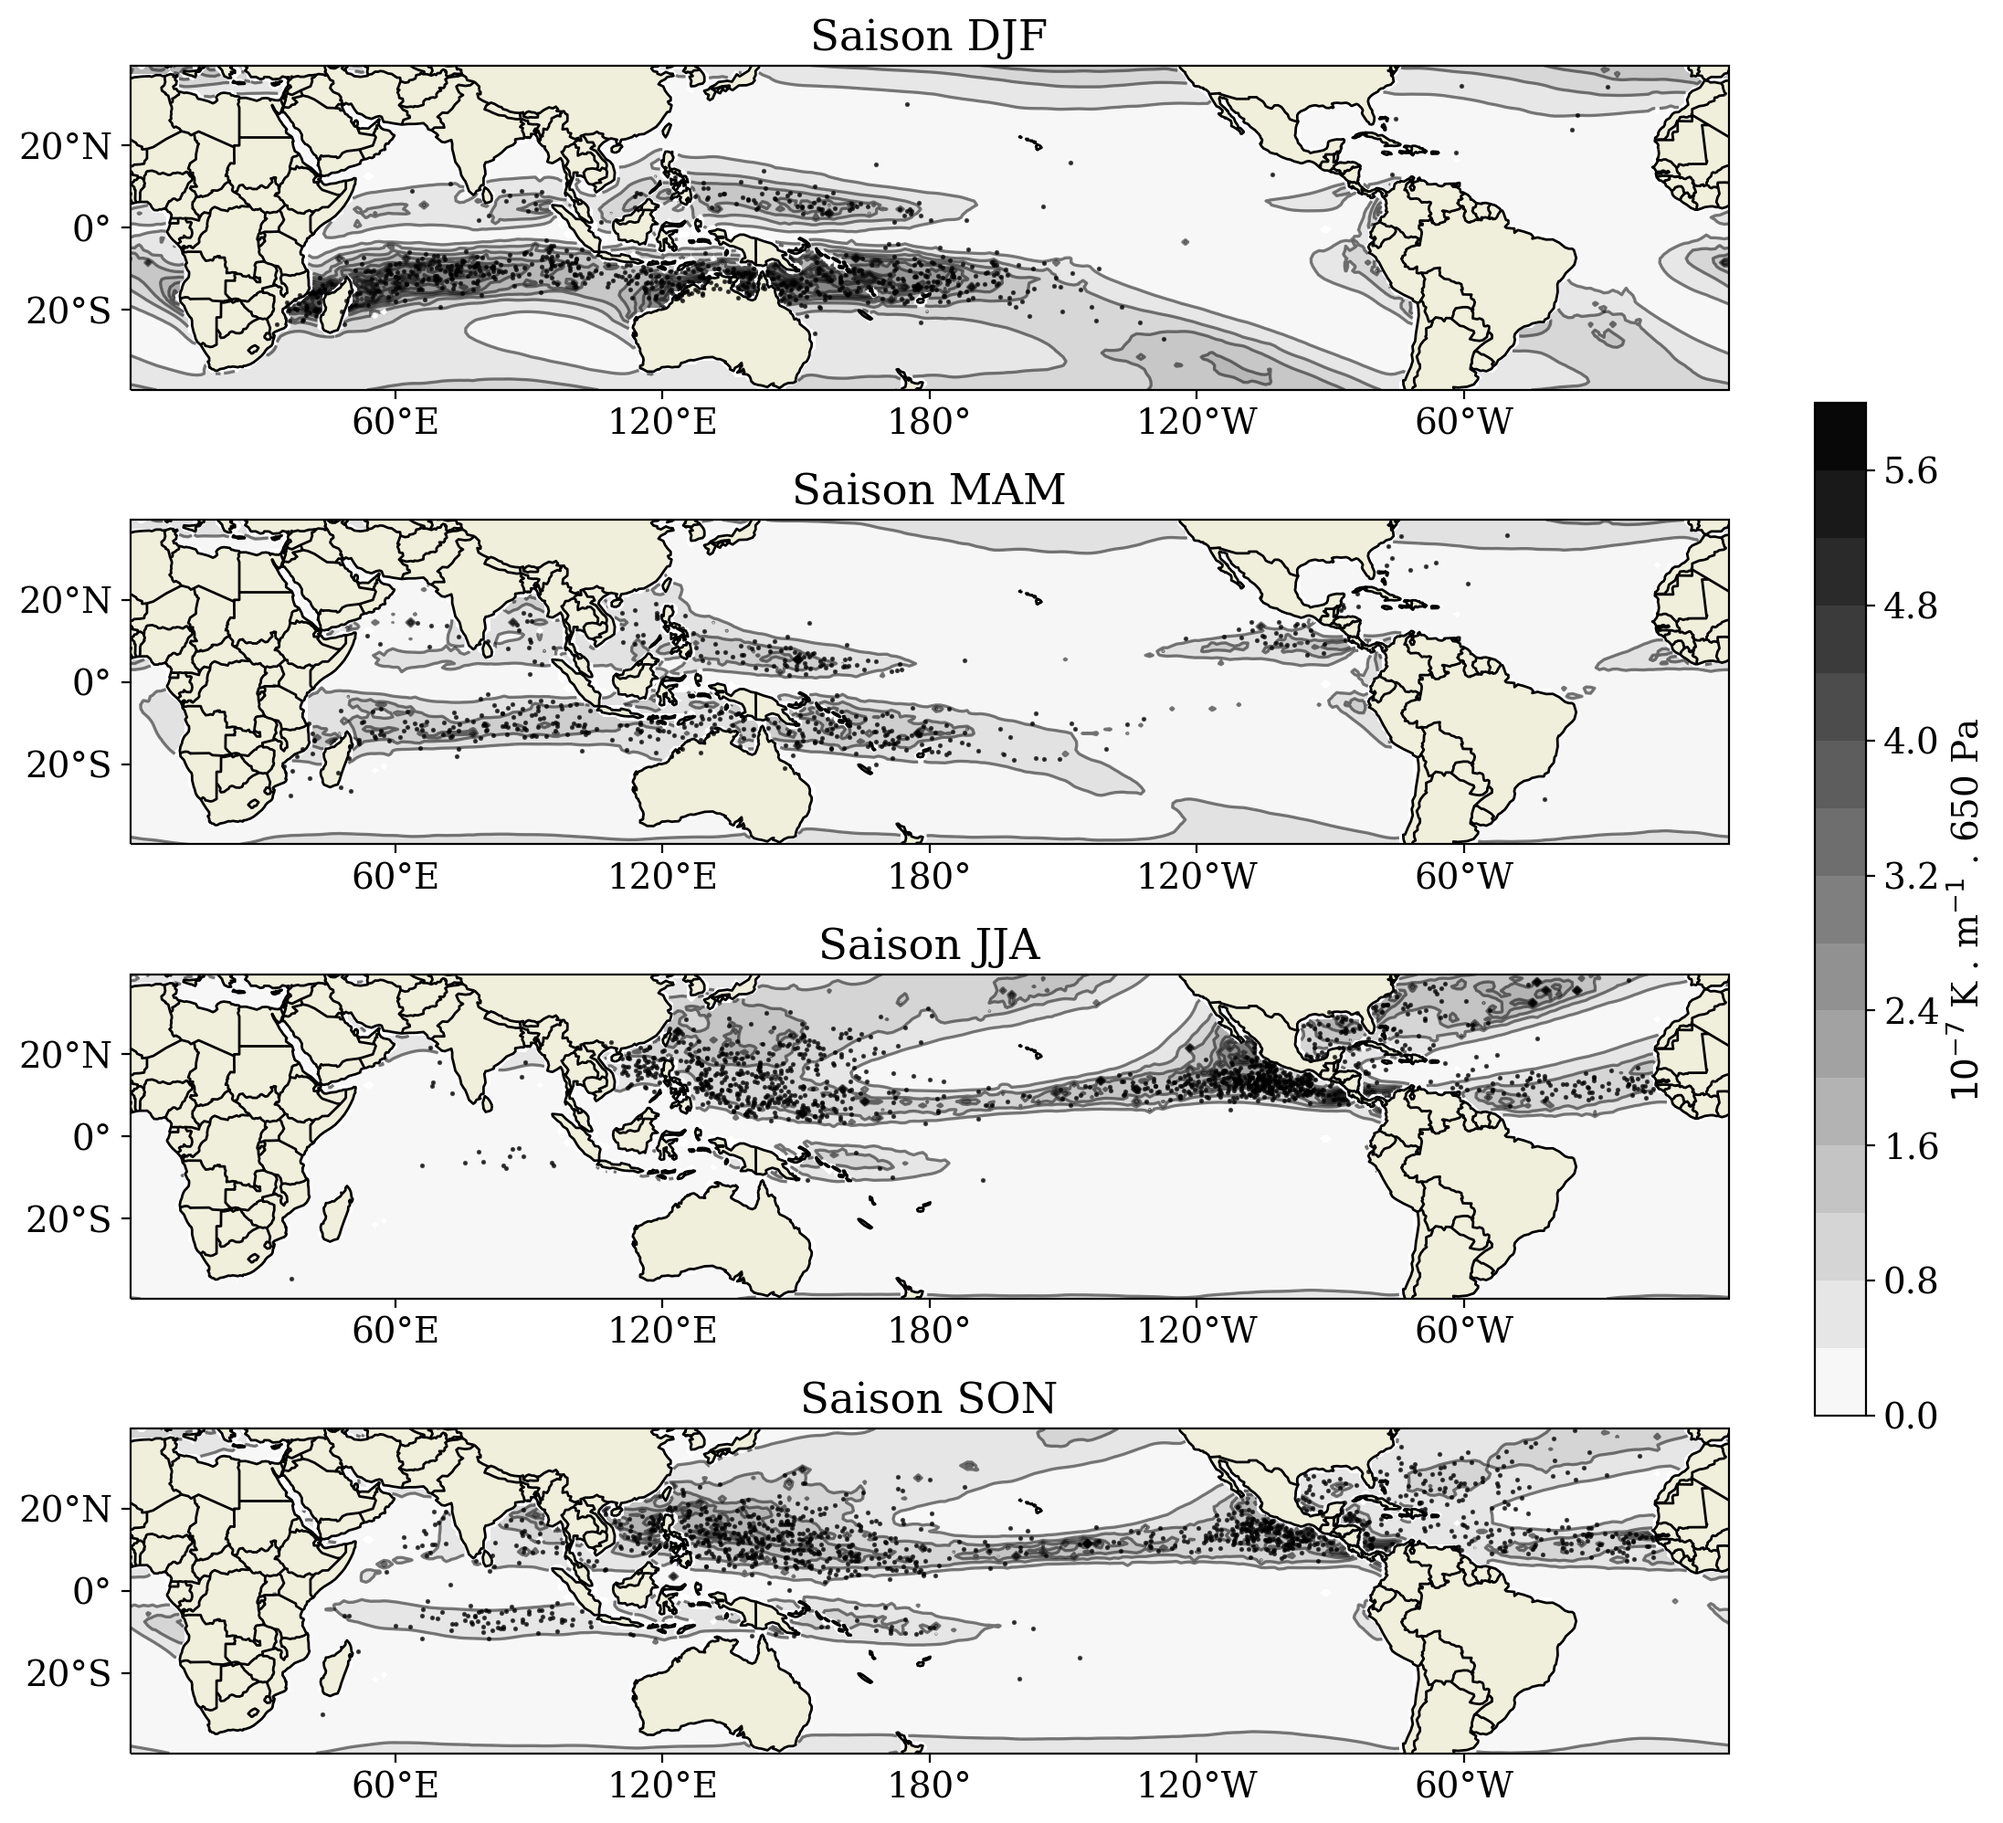
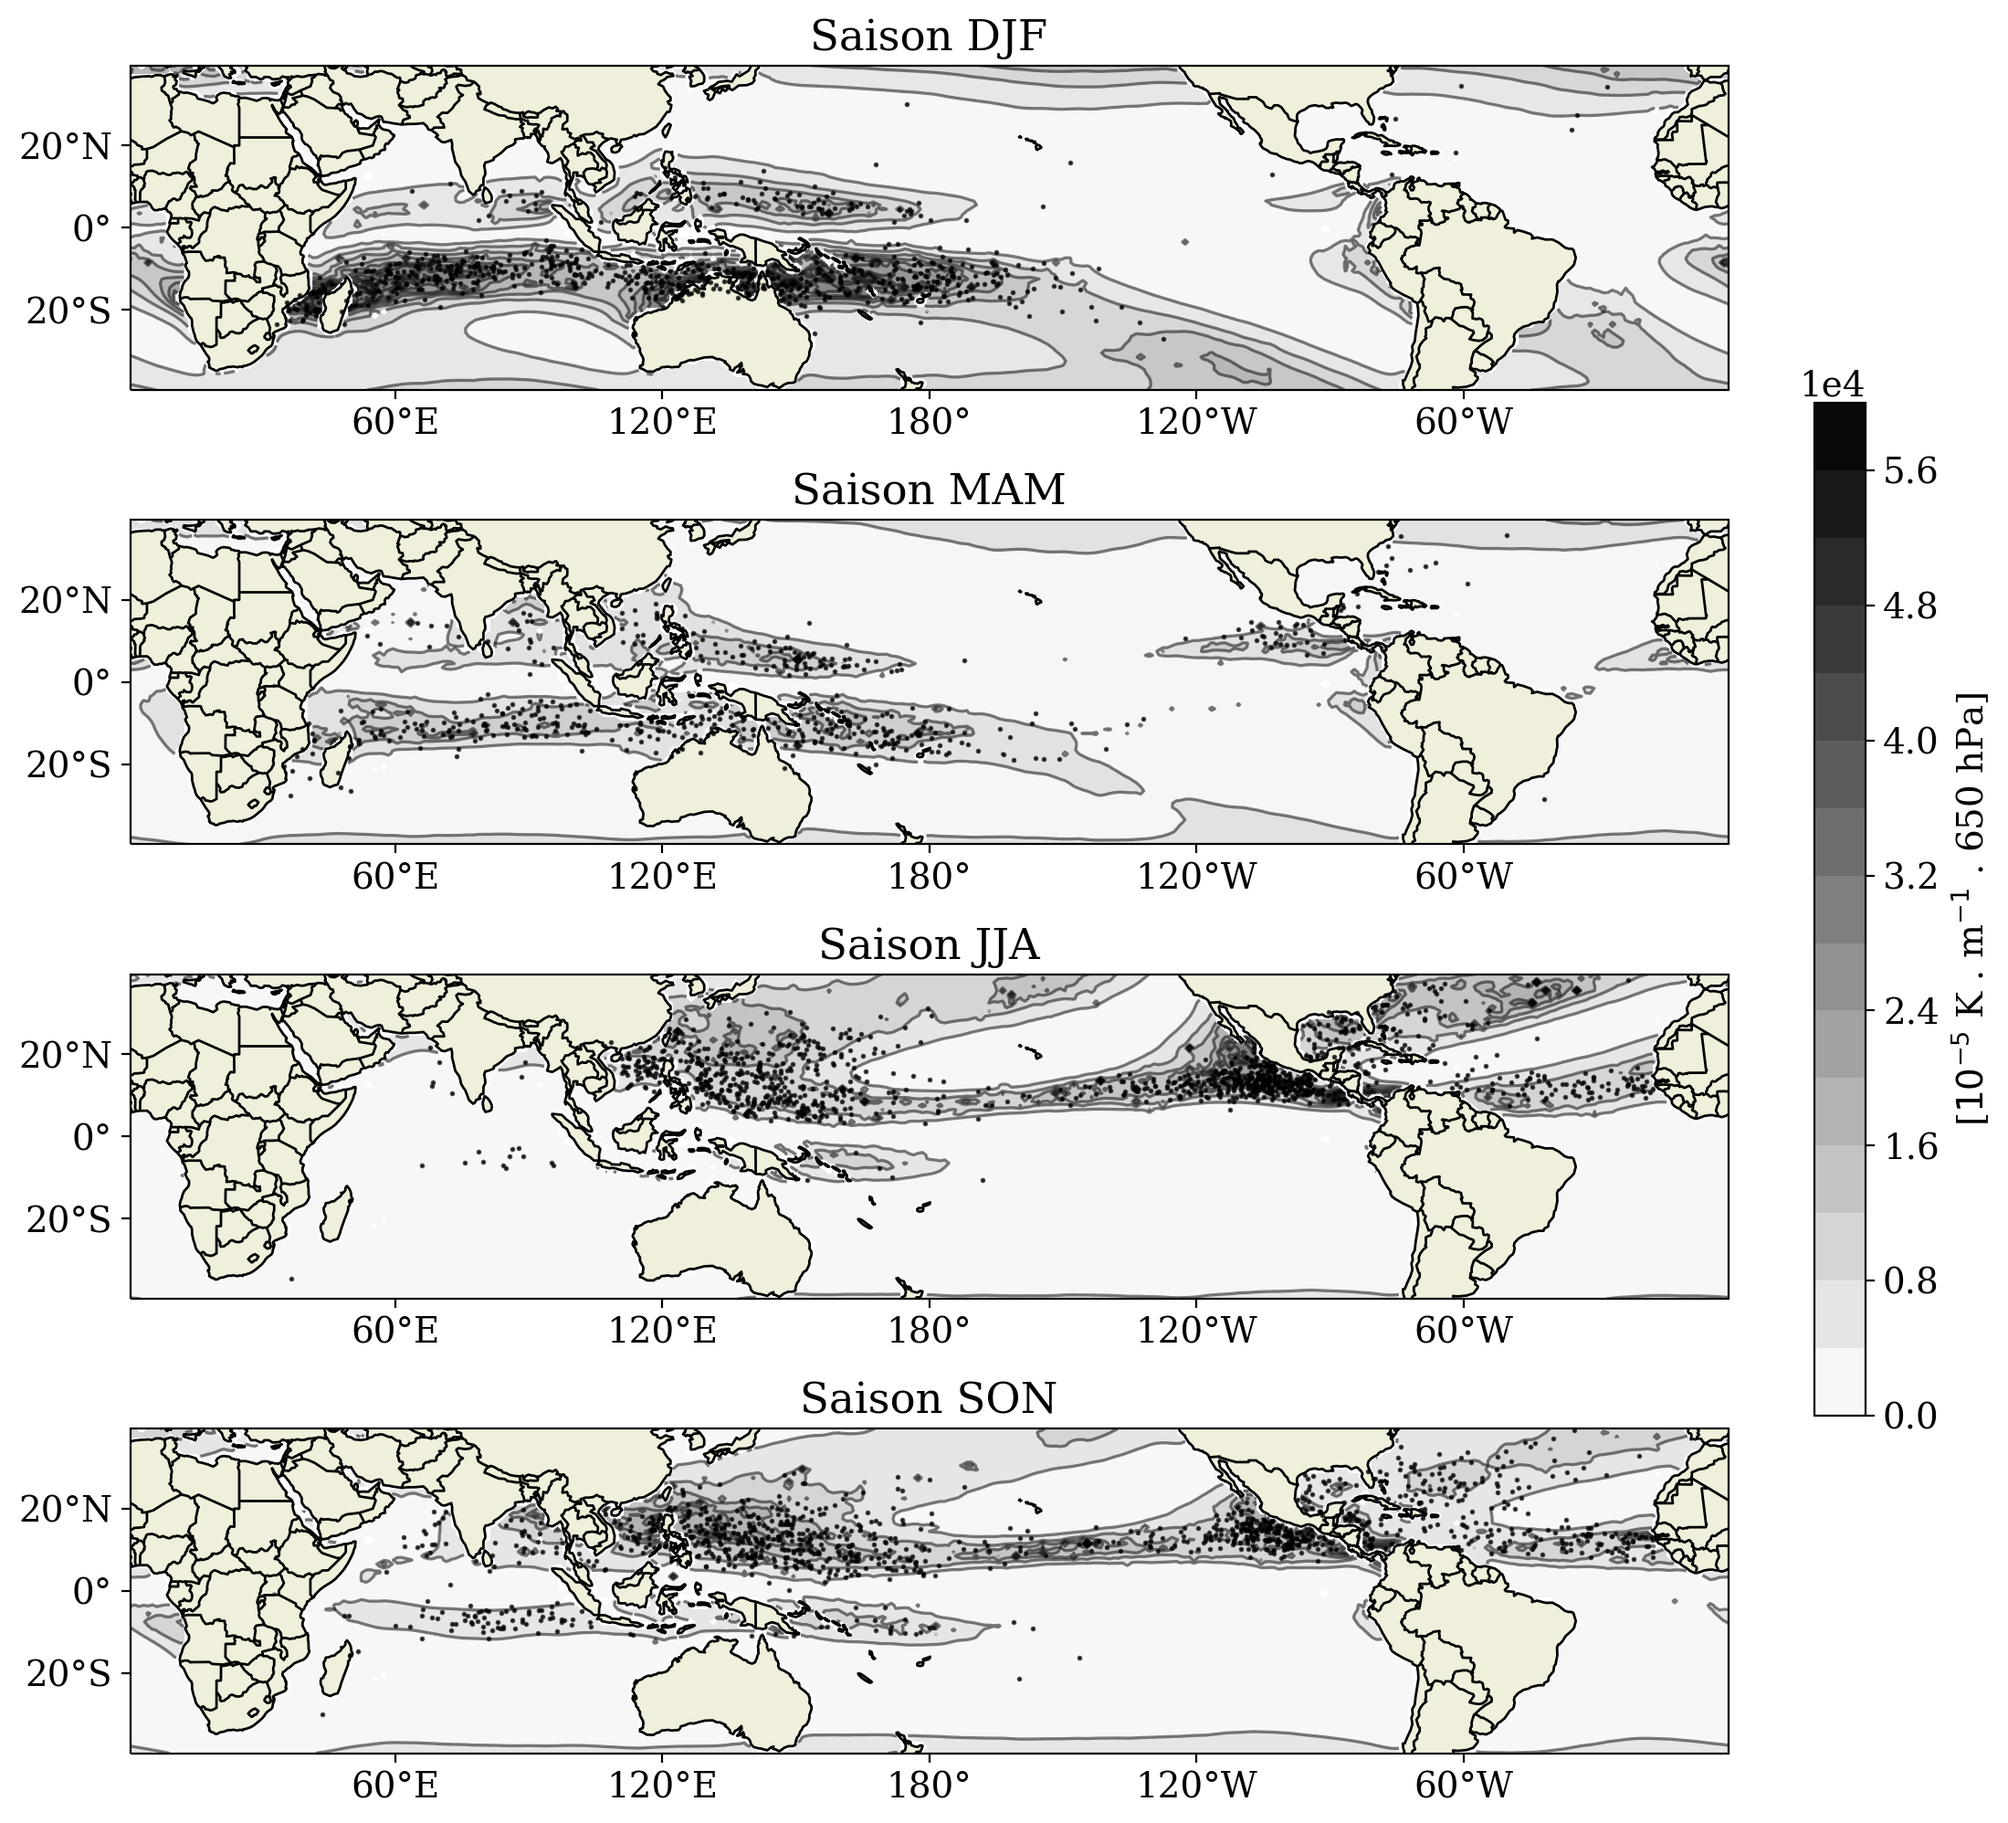
Ré-écriture partielle des derniers ajouts

diff --git a/Chapitres/chapitre1.tex b/Chapitres/chapitre1.tex
@@ -128,8 +128,7 @@ intègre déjà le paramètre de Coriolis, noté $f$, auquel le module de la for
 \begin{equation*}
     \zeta = \zeta_R + \underbrace{2 \Omega \sin \phi}_{f}
 \end{equation*}
-\noindent où $\zeta_R$ est la vorticité relative, définie comme le rotationel du vent tel que mesuré dans le référentiel de la Terre, $\Omega$ la période de rotation de la Terre et $\phi$ la latitude. L'inverse du cisaillement vertical est pris de telle façon à ce que des valeurs élevées indiquent des régions favorables à l'apparition de TC, puisque la présence de cisaillement y est sinon hautement défavorable. La SST est présentée ici comme l'anomalie spatiale de température aux tropiques pour y faire
-apparaître les variations saisonnières plus nettement.
+\noindent où $\zeta_R$ est la vorticité relative, définie comme le rotationel du vent tel que mesuré dans le référentiel de la Terre, $\Omega$ la période de rotation de la Terre et $\phi$ la latitude. L'inverse du cisaillement vertical est pris de telle façon à ce que des valeurs élevées indiquent des régions favorables à la cyclogénèse et la SST est présentée ici comme la différence entre la SST et la température de surface moyenne entre \ang{20}S et \ang{20}N ---~nommée la SST relative~--- pour faire apparaître les variations saisonnières plus nettement.
 
 \begin{figure}[tp]
     \centering
@@ -138,25 +137,28 @@ apparaître les variations saisonnières plus nettement.
     \label{fig:clim_ingredients}
 \end{figure}
 
-La SST apparaît comme un des facteurs prédominants dans la répartition spatiale et temporelle de l'activité cyclonique, puisqu'on retrouve sur ces cartes de SST relatives la structure géographique des trajectoires de cyclones tropicaux observés présentés sur la \cref{fig:bassins_TC}. De même, la saisonnalité de la SST semble coïncider avec l'activité mensuelle présentée sur la \cref{fig:saisons_TC} dans la plupart des bassins océaniques, avec des températures relatives de surface des océans très
-prononcées dans l'Atlantique nord et l'Indo-Pacifique nord pendant les saisons Juin~-~Juillet~-~Août (JJA) ainsi que, dans une mesure un peu moindre, durant la saison Septembre~-~Octobre~-~Novembre (SON). Cette configuration spatiale s'inverse dans l'Indo-Pacifique durant les saisons Décembre~-~Janvier~-~Février (DJF) et Mars~-~Avril~-~Mai (MAM), où la partie sud présente une anomalie spatiale plus forte. Une exception à ce lien direct entre SST et l'activité cyclonique observée est
-visible dans le bassin NInd durant JJA. À cette saison, on note, en plus de la SST, une humidité relative élevée ainsi qu'une forte vorticité dans le bassin. Néanmoins, comme précédemment expliqué (c.f \cref{sec:bassins_saisons}), JJA correspond à la saison de la mousson indienne, laquelle apporte du cisaillement vertical important, si bien que $1/S_z$ avoisine zéro, correspondant exactement à la rupture visible sur la \cref{fig:saisons_TC}, ce qui illustre donc à nouveau le rôle essentiel du
-cisaillement dans le processus de cyclogénèse. La climatologie de ces ingrédients fournit par ailleurs des indices sur la rareté des cyclones tropicaux dans l'océan Atlantique sud. La SST ne s'éloigne guère de la moyenne tropicale tout au long de l'année, l'humidité y est beaucoup moins présente que dans les autres bassin d'activité et la région présente par ailleurs du cisaillement, avec une baisse durant DJF. Selon \cite{gray_global_1968}, il n'y a généralement pas de ZCIT dans ce
-secteur non plus, ce qui prive la région des précurseurs qui peuvent en être issus. 
+Au premier abord, la SST apparaît comme un des facteurs prédominants dans la répartition spatiale et temporelle de l'activité cyclonique, puisqu'on retrouve sur ces cartes de SST relatives la structure géographique des trajectoires de cyclones tropicaux observés présentés sur la \cref{fig:bassins_TC}. L'humidité relative et le cisaillement laissent également apparaître cette répartition spatiale, avec toutefois quelques nuances supplémentaires, notamment dans les régions extra
+tropicales. La climatologie de la vorticité est en revanche moins lisible mais présente localement des variations saisonnières dans l'étendue méridionale du bandeau tropical. Par ailleurs, les variations saisonnières de ces quatre paramètres coïncident également avec l'activité mensuelle présentée sur la \cref{fig:saisons_TC}. Cet accord est particulièrement visible sur les tracés de SST, avec des températures relatives de surface des océans très
+prononcées dans l'Atlantique nord et l'Indo-Pacifique nord pendant les saisons Juin~-~Juillet~-~Août (JJA) ainsi que, dans une mesure un peu moindre, durant la saison Septembre~-~Octobre~-~Novembre (SON). Cette configuration spatiale s'inverse dans l'Indo-Pacifique durant les saisons Décembre~-~Janvier~-~Février (DJF) et Mars~-~Avril~-~Mai (MAM), où la partie sud présente une anomalie spatiale plus forte. Le bassin NInd durant la saison JJA constitue un cas particulier, déjà évoqué
+précédemment (c.f \cref{sec:bassins_saisons}), puisque l'humidité relative, la vorticité et la SST y sont toutes trois élevées, tandis que l'activité cyclonique y est quasi nulle (c.f \cref{fig:saisons_TC}). En effet, cette saison correspond à la mousson d'été en Inde, laquelle apporte du fort cisaillement vertical, si bien que $1/S_z$ avoisine zéro. Cela illustre donc d'une part à nouveau le rôle essentiel du cisaillement dans le processus de cyclogénèse, et d'autre part le fait que la cyclogénèse soit sensible à la
+combinaison de ces ingrédients.
+%\noindent La climatologie de ces ingrédients fournit par ailleurs des indices sur la rareté des cyclones tropicaux dans l'océan Atlantique sud. La SST ne s'éloigne guère de la moyenne tropicale tout au long de l'année, l'humidité y est beaucoup moins présente que dans les autres bassin d'activité et la région présente par ailleurs du cisaillement, avec une baisse durant DJF. Selon \cite{gray_global_1968}, il n'y a généralement pas de ZCIT dans ce
+%secteur non plus, ce qui prive la région des précurseurs qui peuvent en être issus. 
 
-En première approche, il est possible d'estimer la climatologie spatiale et saisonnière des bassins cycloniques en prenant simplement le produit des quatre variables présentées sur la \cref{fig:clim_ingredients}. C'est ce que montre la \cref{fig:produit_ingredients}, avec en superposition les premières observations des trajectoires des cyclones tropicaux observés entre 1981 et 2019, celles là mêmes qui sont présentées sur la \cref{fig:bassins_TC}. Ce produit est alors défini comme suit :
+En première approche, il est possible d'estimer la climatologie spatiale et saisonnière des zones où les conditions favorables sont réunies en prenant simplement le produit des quatre variables présentées sur la \cref{fig:clim_ingredients}. C'est ce que montre la \cref{fig:produit_ingredients}, avec en superposition les premières observations des trajectoires des cyclones tropicaux observés entre 1981 et 2019, celles là mêmes qui sont présentées sur la \cref{fig:bassins_TC}. Ce produit est
+ici défini comme suit, :
 \begin{equation*}
-    10^{-4} \times \text{RH}_{\SI{600}{\hecto\pascal}} \times \zeta_{\SI{850}{\hecto\pascal}} \times \frac{1}{S_z} \times \text{SST} \quad \text{[$10^{-7}$ K m$^{-1}$ \SI{650}{\pascal}}]
+    \text{RH}_{\SI{600}{\hecto\pascal}} \times \zeta_{\SI{850}{\hecto\pascal}} \times \frac{1}{S_z} \times \text{SST} \quad \text{[$10^{-5}$ K m$^{-1}$ \SI{650}{\hecto\pascal}}]
 \end{equation*}
 \begin{figure}[tbp]
     \centering
     \includegraphics[width=1\textwidth]{clim_saison_produit_ingredients_et_ibtracs.png}
-    \caption{Climatologies saisonnières du produit des quatre variables présentées sur la \cref{fig:clim_ingredients}, à l'exception de la SST qui est ici simplement la température de surface de l'océan, sans considérer l'écart aux tropiques.
+    \caption{Climatologies saisonnières du produit des quatre variables présentées sur la \cref{fig:clim_ingredients}, où la SST est ici simplement la température de surface de l'océan, sans considérer l'écart aux tropiques.
     Sont représentés par des points noirs pour chaque saison les premières observations des trajectoires présentées sur la \cref{fig:bassins_TC}.}
     \label{fig:produit_ingredients}
 \end{figure}
 \noindent Cette figure montre un excellent accord entre le produit des quatre variables et l'activité cyclonique observée, aussi bien dans la répartition géographique que temporelle. Quelques points de discorde demeurent cependant, notamment durant les saisons DJF et SON dans l'océan Pacifique sud et nord, respectivement, où la combinaison des variables indique des zones favorables jusque dans les moyennes latitudes, tandis que l'activité cyclonique y est quasi inexistante.
-On distingue dans ces zones l'empreinte conjointe de l'humidité relative et du cisaillement, lesquelles présentent la même structure durant ces saisons sur la \cref{fig:clim_ingredients}. La constatation selon laquelle la fréquence d'occurrence des cyclones tropicaux en un lieu donné puisse être proportionnelle à une combinaison de variables de grande échelles, découverte attribuée à \cite{gray_tropical_1975}, est à l'origine de ce qui sera nommé par la suite les indices de
+On distingue dans ces zones l'empreinte conjointe de l'humidité relative et du cisaillement, lesquelles présentent la même structure durant ces saisons sur la \cref{fig:clim_ingredients}. Dans la ceinture tropicale et sub-tropicale, la correspondance entre le produit des paramètres et l'activité observée demeure cependant remarquable. Ce constat selon lequel la fréquence d'occurrence des cyclones tropicaux en un lieu donné puisse être proportionnelle à une combinaison de variables de grande échelle, découverte attribuée à \cite{gray_tropical_1975}, est à l'origine de ce qui sera nommé par la suite les indices de
 cyclogénèse, et qui seront abordés plus en détails dans la \cref{sec:tracking_vs_indices}, puis dans le \cref{sec:chapitre_3}.
 
 
